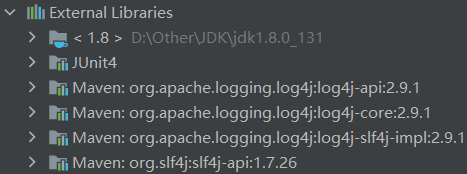
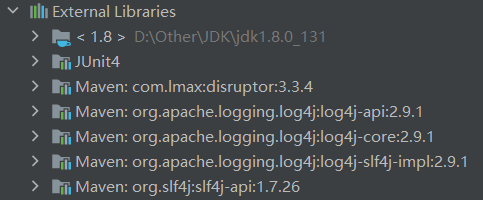
添加异步日志依赖，修复文件读取问题

Changed region(s): [[0.06, 0.1437, 1.0, 0.8621], [0.06, 0.8908, 0.6595, 1.0], [0.0, 0.0, 0.3897, 0.1149]]

diff --git a/src/main/java/tool/BinaryTool.java b/src/main/java/tool/BinaryTool.java
@@ -57,7 +57,7 @@ public class BinaryTool {
                 list = new ArrayList<>();   //创建ArrayList 和key 对应，接收value
                 String[] split = str.split(" ");//根据空格分开key和list中的value
                 arrayList.put(split[0], list);  //放入key 和集合到map中
-                for (int i = 1; i < list.size(); i++) { //历遍value
+                for (int i = 1; i < split.length - 1; i++) { //历遍value
                     list.add(split[i]); //放入value
                 }
                 str = "";   //置空以便读取下一个key 和value
@@ -74,7 +74,7 @@ public class BinaryTool {
             fileOutputStream.write(key.getBytes()); //写入key
             fileOutputStream.write("=".getBytes()); //根据 = 分割key 和value
             fileOutputStream.write(hashMap.get(key).getBytes());    //写入key 对应的value
-            fileOutputStream.write("\n".getBytes());    //换行输入下一个key
+            fileOutputStream.write(" \n".getBytes());    //换行输入下一个key
         }
 
     }
@@ -89,7 +89,7 @@ public class BinaryTool {
             for (int i = 0; i < list.size(); i++) { //历遍list的值
                 fileOutputStream.write((" " + list.get(i)).getBytes()); //以空格分割value
             }
-            fileOutputStream.write("\n".getBytes());    //换行输入下一个key
+            fileOutputStream.write(" \n".getBytes());    //换行输入下一个key
         }
     }
 }

diff --git a/src/main/java/function/KeyCommand.java b/src/main/java/function/KeyCommand.java
@@ -122,6 +122,8 @@ public class KeyCommand {
     }
 
     public static String srem(String key, String member){   //删除key 中的成员
+       Boolean flag = false;
+
         if(arrayList.get(key) == null){ //判断key 对应的集合是否已有
             return "null\n";    //集合不存在
         }else {
@@ -132,13 +134,15 @@ public class KeyCommand {
         while(iterator.hasNext()){  //通过迭代器遍历集合
             String value = iterator.next(); //获取成员
             if(value.equals(member)){   //判断集合成员是否与传入元素相同
-                list.remove(member);    //删除氧元素
-                return "1\n";   //删除失败
+                iterator.remove();      //删除元素
+                flag = true;            //删除成功
             }
-
         }
 
-        return "0\n";   //元素不存在，删除失败
+        if(flag)
+            return "1\n";   //元素存在，删除成功
+        else
+            return "0\n";   //元素不存在，删除失败
     }
 
     public static void save() throws IOException {

diff --git a/README.md b/README.md
@@ -106,4 +106,5 @@ public class AClient {...}
 7. 文件相关完善及说明文档提交
 8. 说明文件图片加载
 9. 服务端能通过输入关闭
+10. 使用异步日志，修复文件读取问题
 
